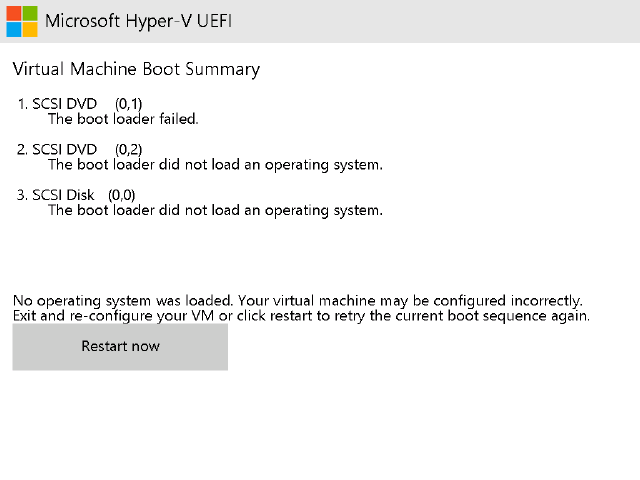
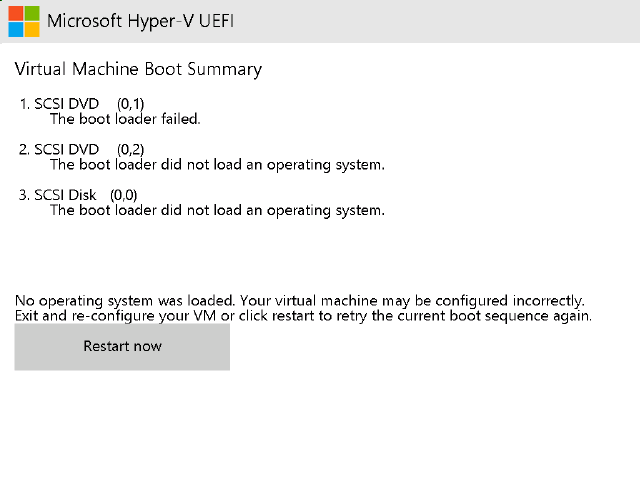
docs(a1): capture Gen2 boot loader failure screenshot

diff --git a/docs/v1.7/STATUS.md b/docs/v1.7/STATUS.md
@@ -21,7 +21,7 @@ design exists; it is DONE only when its evidence is committed.
 
 | Item | Status | Evidence |
 |---|---|---|
-| A1 clean-VM acceptance | **A1_BLOCKED_VM_BOOT** | ISO PROVIDED and preflight passed; cbs-a1-clean Gen2 boot failed (event 18603); no snapshot; Q05-Q17 not run |
+| A1 clean-VM acceptance | **A1_BLOCKED_VM_BOOT** | ISO PROVIDED/preflight passed; Gen2 UEFI shows "SCSI DVD (0,1) The boot loader failed"; screenshot a1-uefi-boot-failed-final.png; Gen1 control boots same ISO; no snapshot |
 
 Do not retry the current ISO. Wait for a verified UEFI-bootable ISO or a clean
 VHDX. `cbs-acceptance-vm` and `CBS-Test` are not used as clean baselines.

diff --git a/docs/v1.7/INTEGRATION_AUDIT.md b/docs/v1.7/INTEGRATION_AUDIT.md
@@ -96,7 +96,7 @@ IPC / Named Pipe + Helper: BLOCKED
   pywin32 present; cbs-a1-clean boot failed; cbs-ipc-test not created; no two-account ACL test
 Optional MXC: OPTIONAL / DEFERRED
   owner decision: not part of v1.7.0 blocking scope
-A1 26/26: A1_BLOCKED_VM_BOOT (ISO PROVIDED/preflight passed; Gen2 boot event 18603)
+A1 26/26: A1_BLOCKED_VM_BOOT (ISO PROVIDED/preflight passed; Gen2 "boot loader failed"; screenshot; Gen1 control boots)
 ```
 
 IPC_DEFER_FOR_V1.7.0 is recorded as a recommendation only; owner approval is
